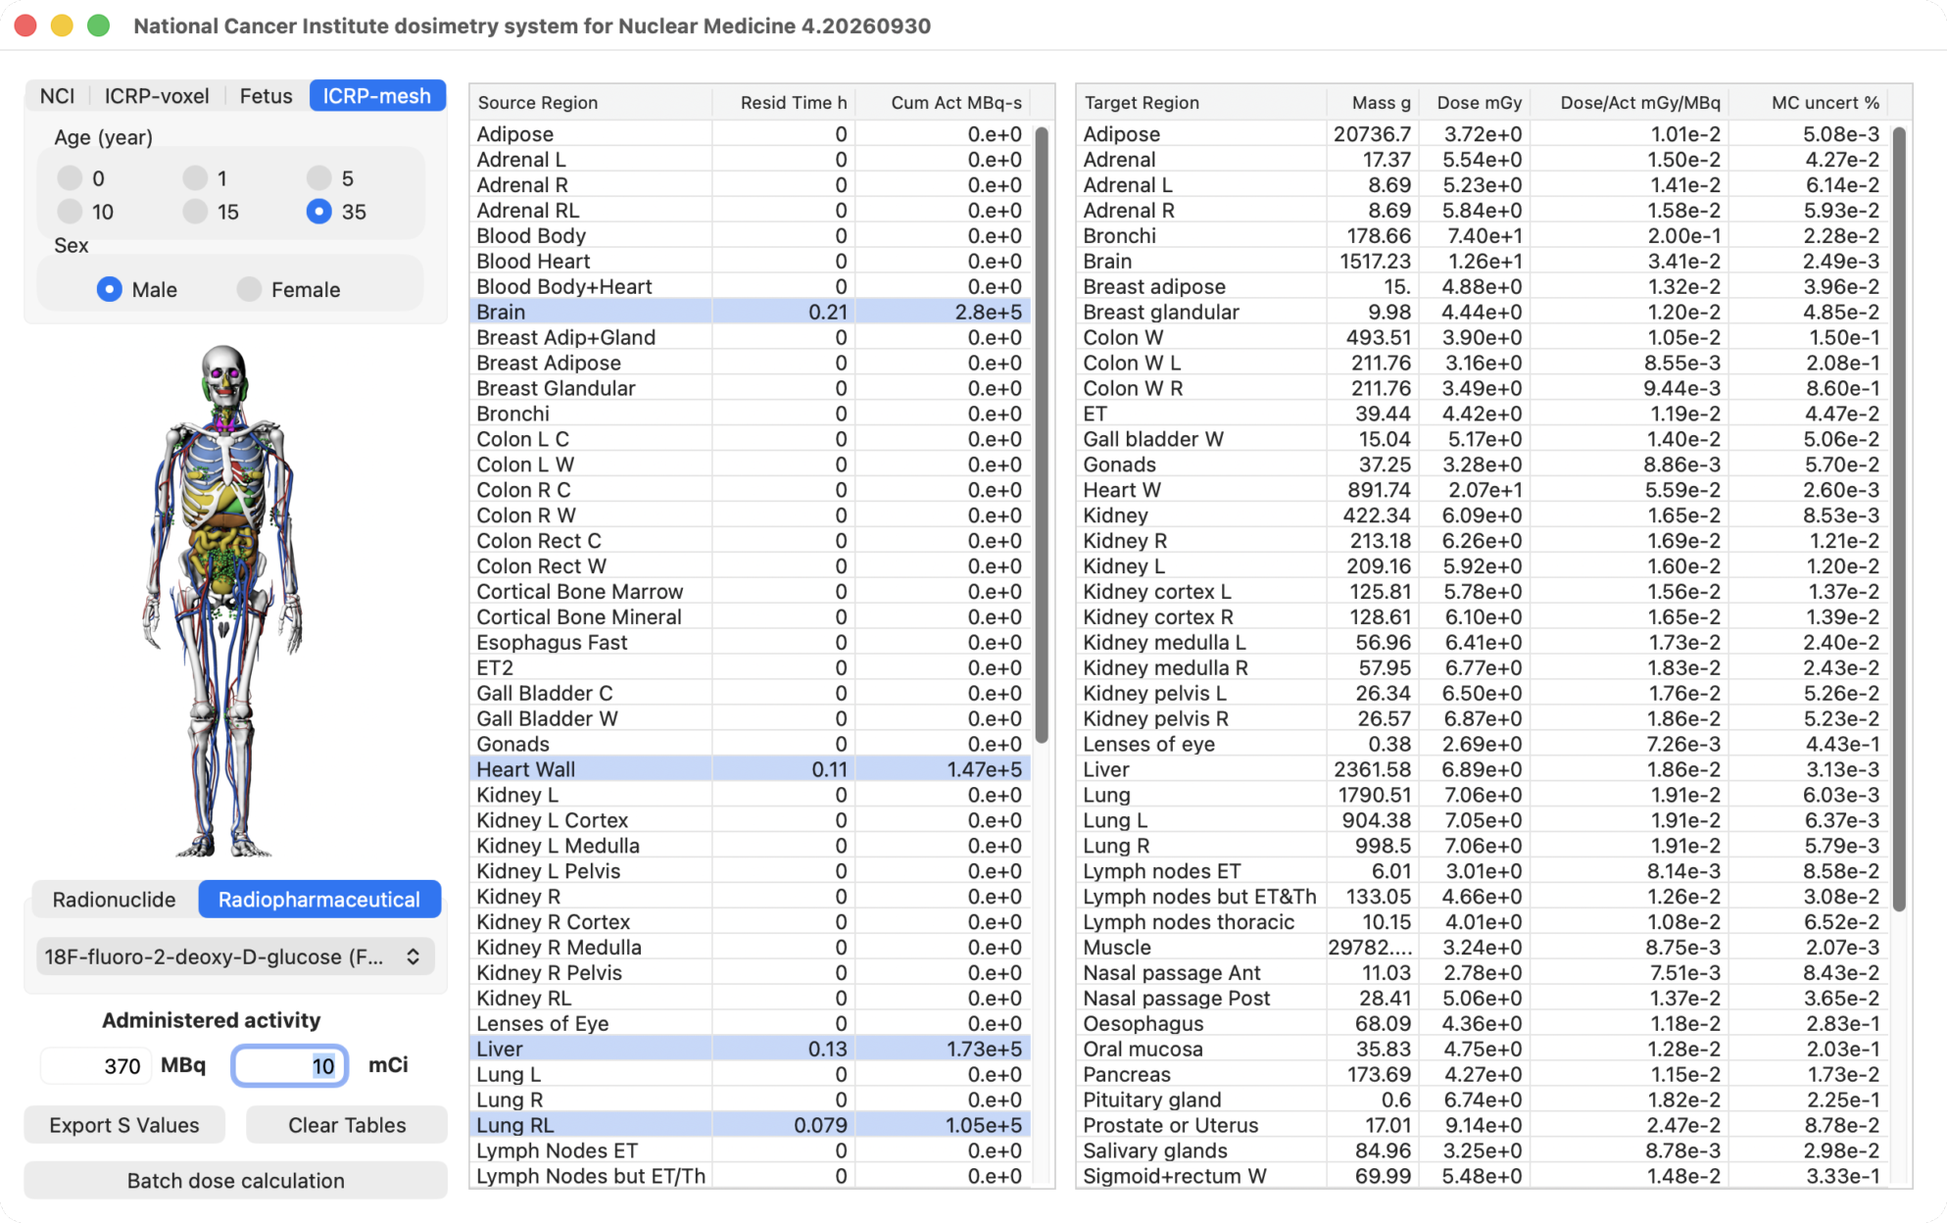
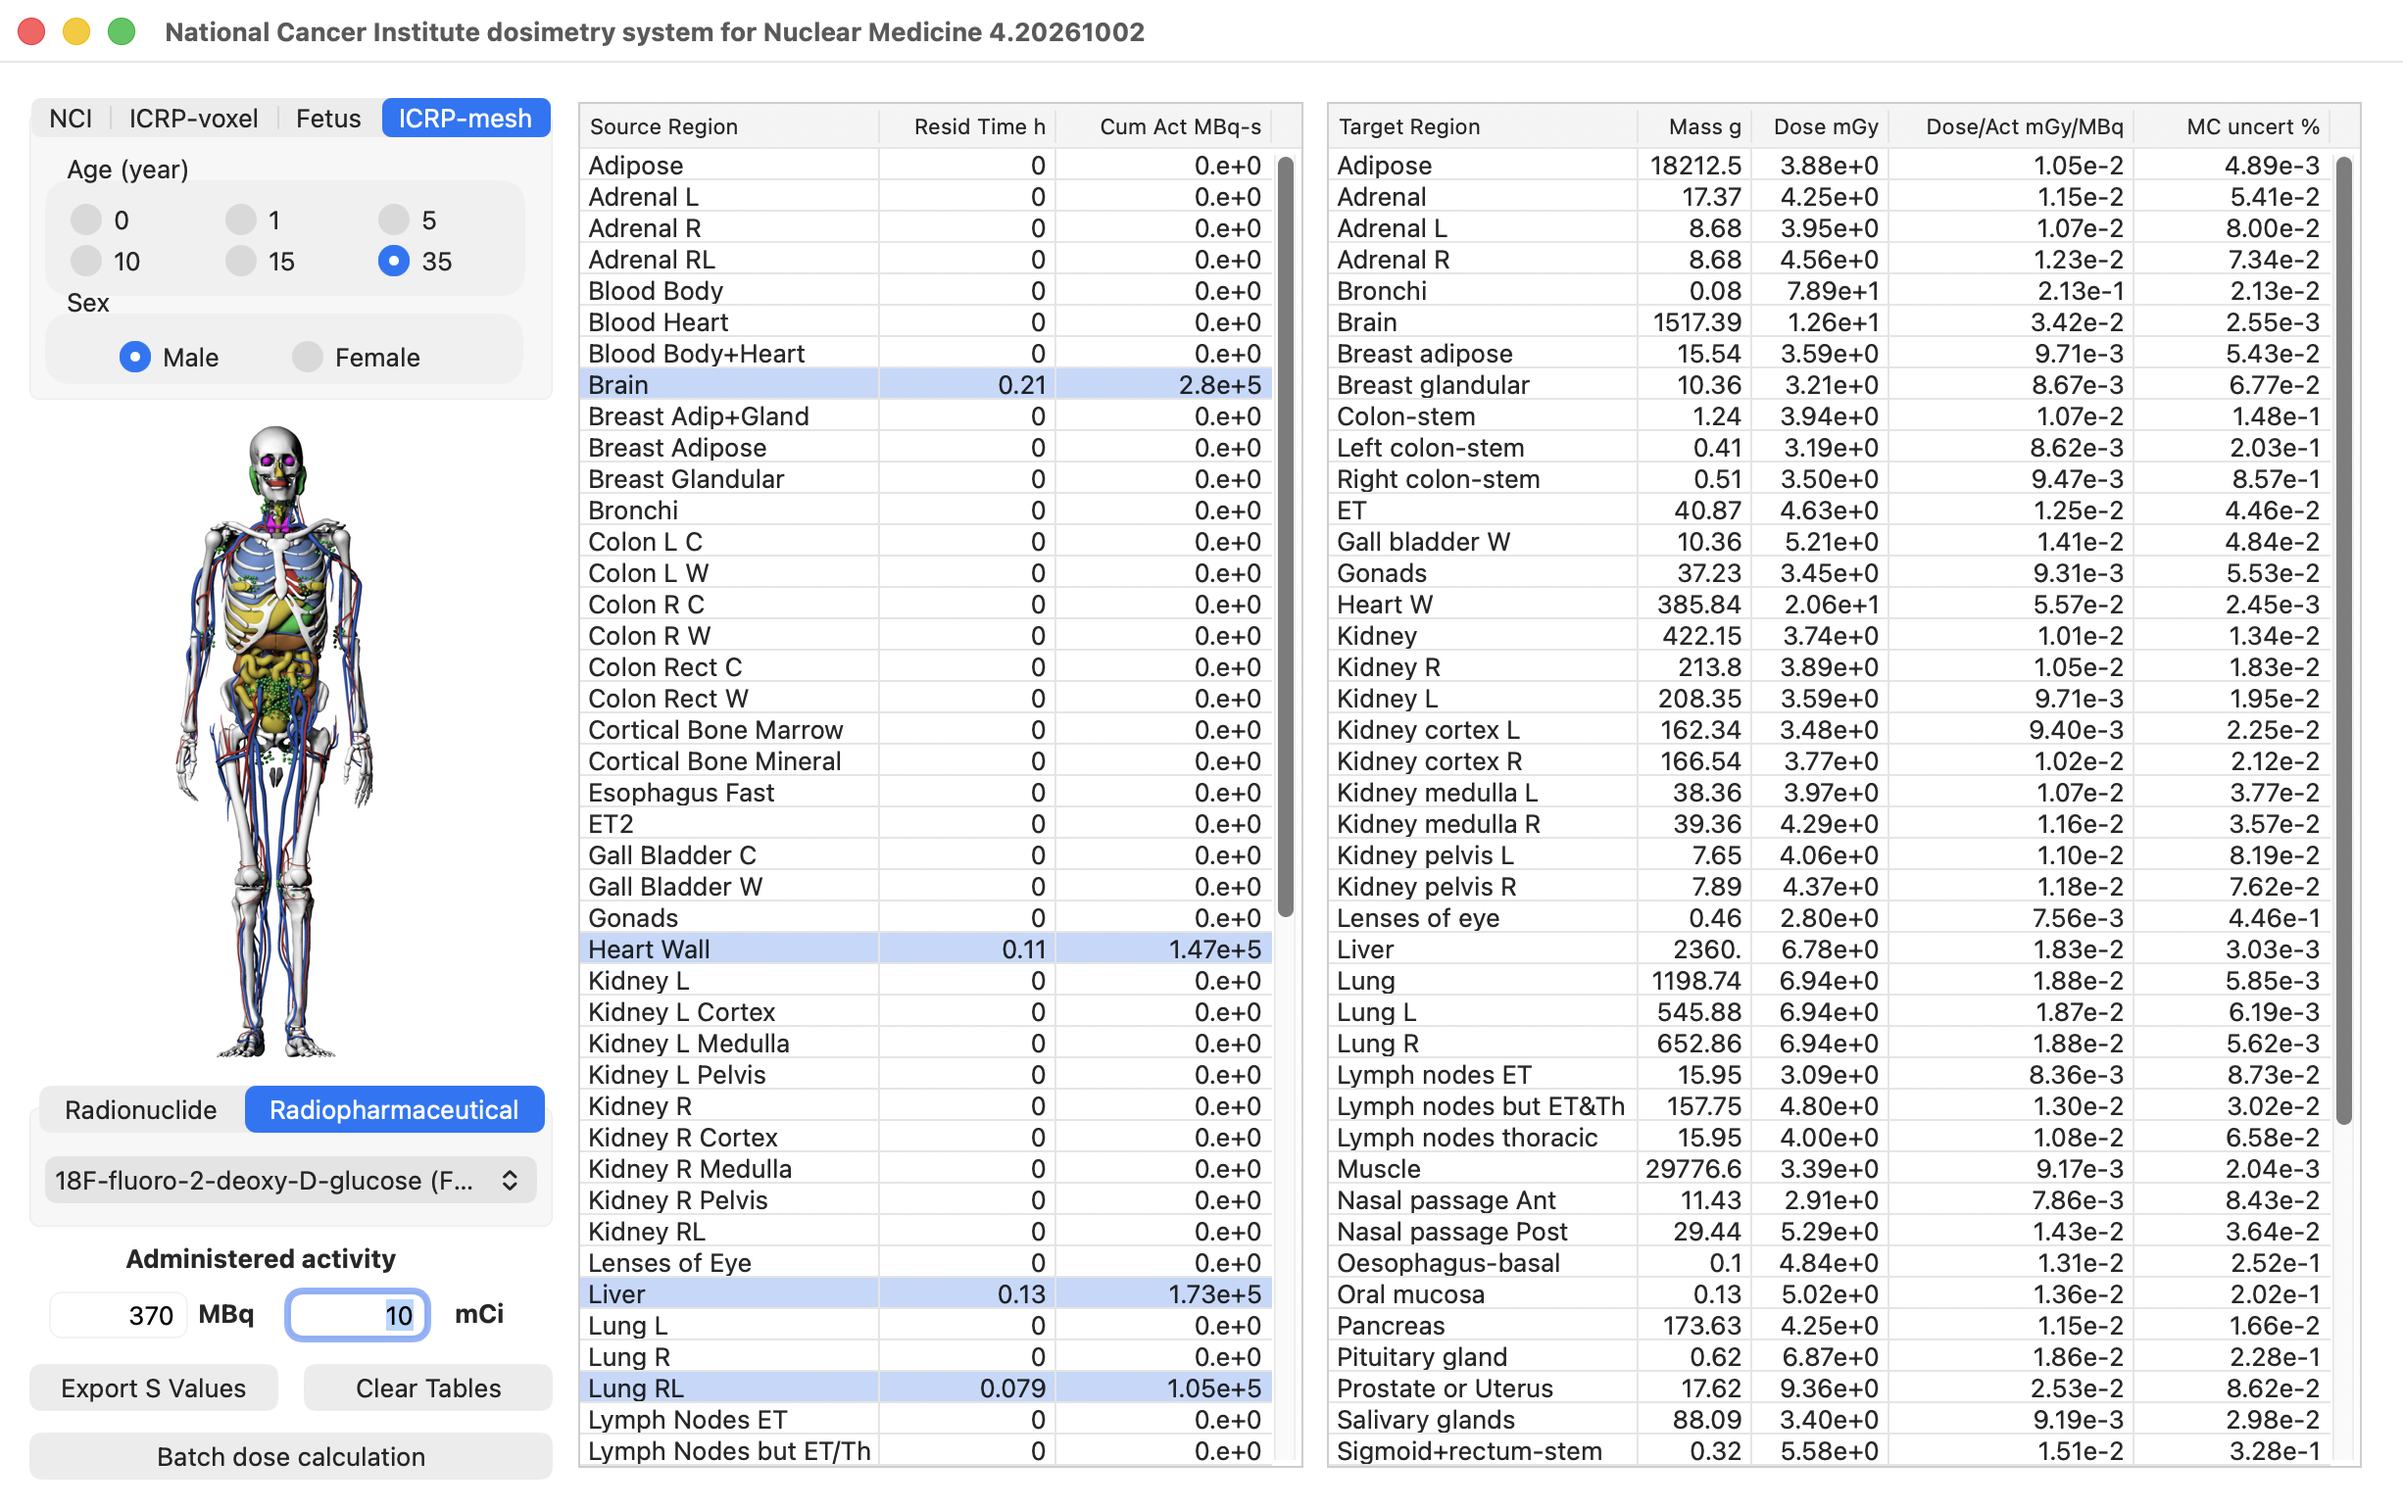
docs: refresh NCINM GUI and clarify release corrections

diff --git a/_versions/NCINM-Version-History.md b/_versions/NCINM-Version-History.md
@@ -13,7 +13,12 @@ Record begins: **2019**
 Desktop release: **4.20261002** (macOS and Windows).
 
 - Corrected the ICRP mesh target-organ mass display to match the targets used by the active dose coefficients, including stem-cell and basal-cell layers.
-- Organ doses, S values and Monte Carlo uncertainty calculations are unchanged.
+- This mass-display correction does not change organ doses, S values or Monte Carlo uncertainty calculations.
+
+This release also includes the September 29–30 scientific updates:
+
+- Updated the biokinetic library to 133 reviewed radiopharmaceutical conditions; unavailable newborn biokinetic data are now explicitly identified.
+- Corrected remainder-activity allocation to avoid overlapping source regions and normalise weights after exclusions. ICRP mesh oesophageal remainder activity now uses wall coefficients.
 
 ### September 30, 2026 — Scientific Update
 
